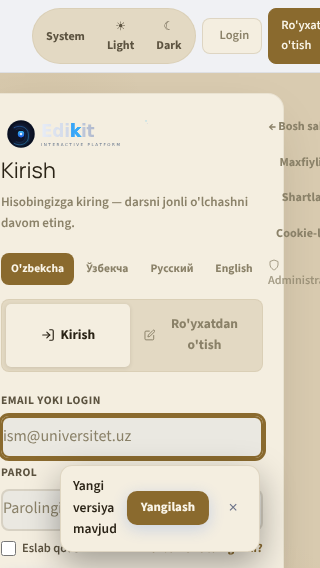
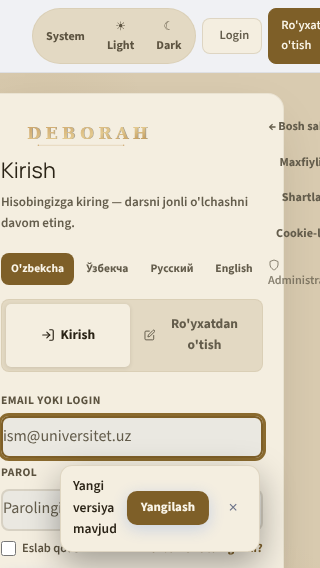
fix(brand): eski 'Edikit — INTERACTIVE PLATFORM' wordmark -> vintage 'DEBORAH' oltin
- logo-text.svg butunlay qayta yozildi: Georgia serif, oltin gradient, tagline yo'q
- auth sahifalari (login/register/forgot/reset/google-setup/invite) endi vintage DEBORAH
- visual baselinelar yangilandi (3 login snapshot)

diff --git a/design-audit/contrast-report.md b/design-audit/contrast-report.md
@@ -1,6 +1,6 @@
 # Deborah Contrast Report (S06.12)
 
-Generated: 2026-08-25T02:49:47.115Z
+Generated: 2026-08-25T03:00:32.396Z
 Pair check: 40 | PASS: 40 | FAIL: 0 (buffer 0.2–0.5 near threshold)
 
 | Theme | Pair | FG | BG | Ratio | Target | Status |
